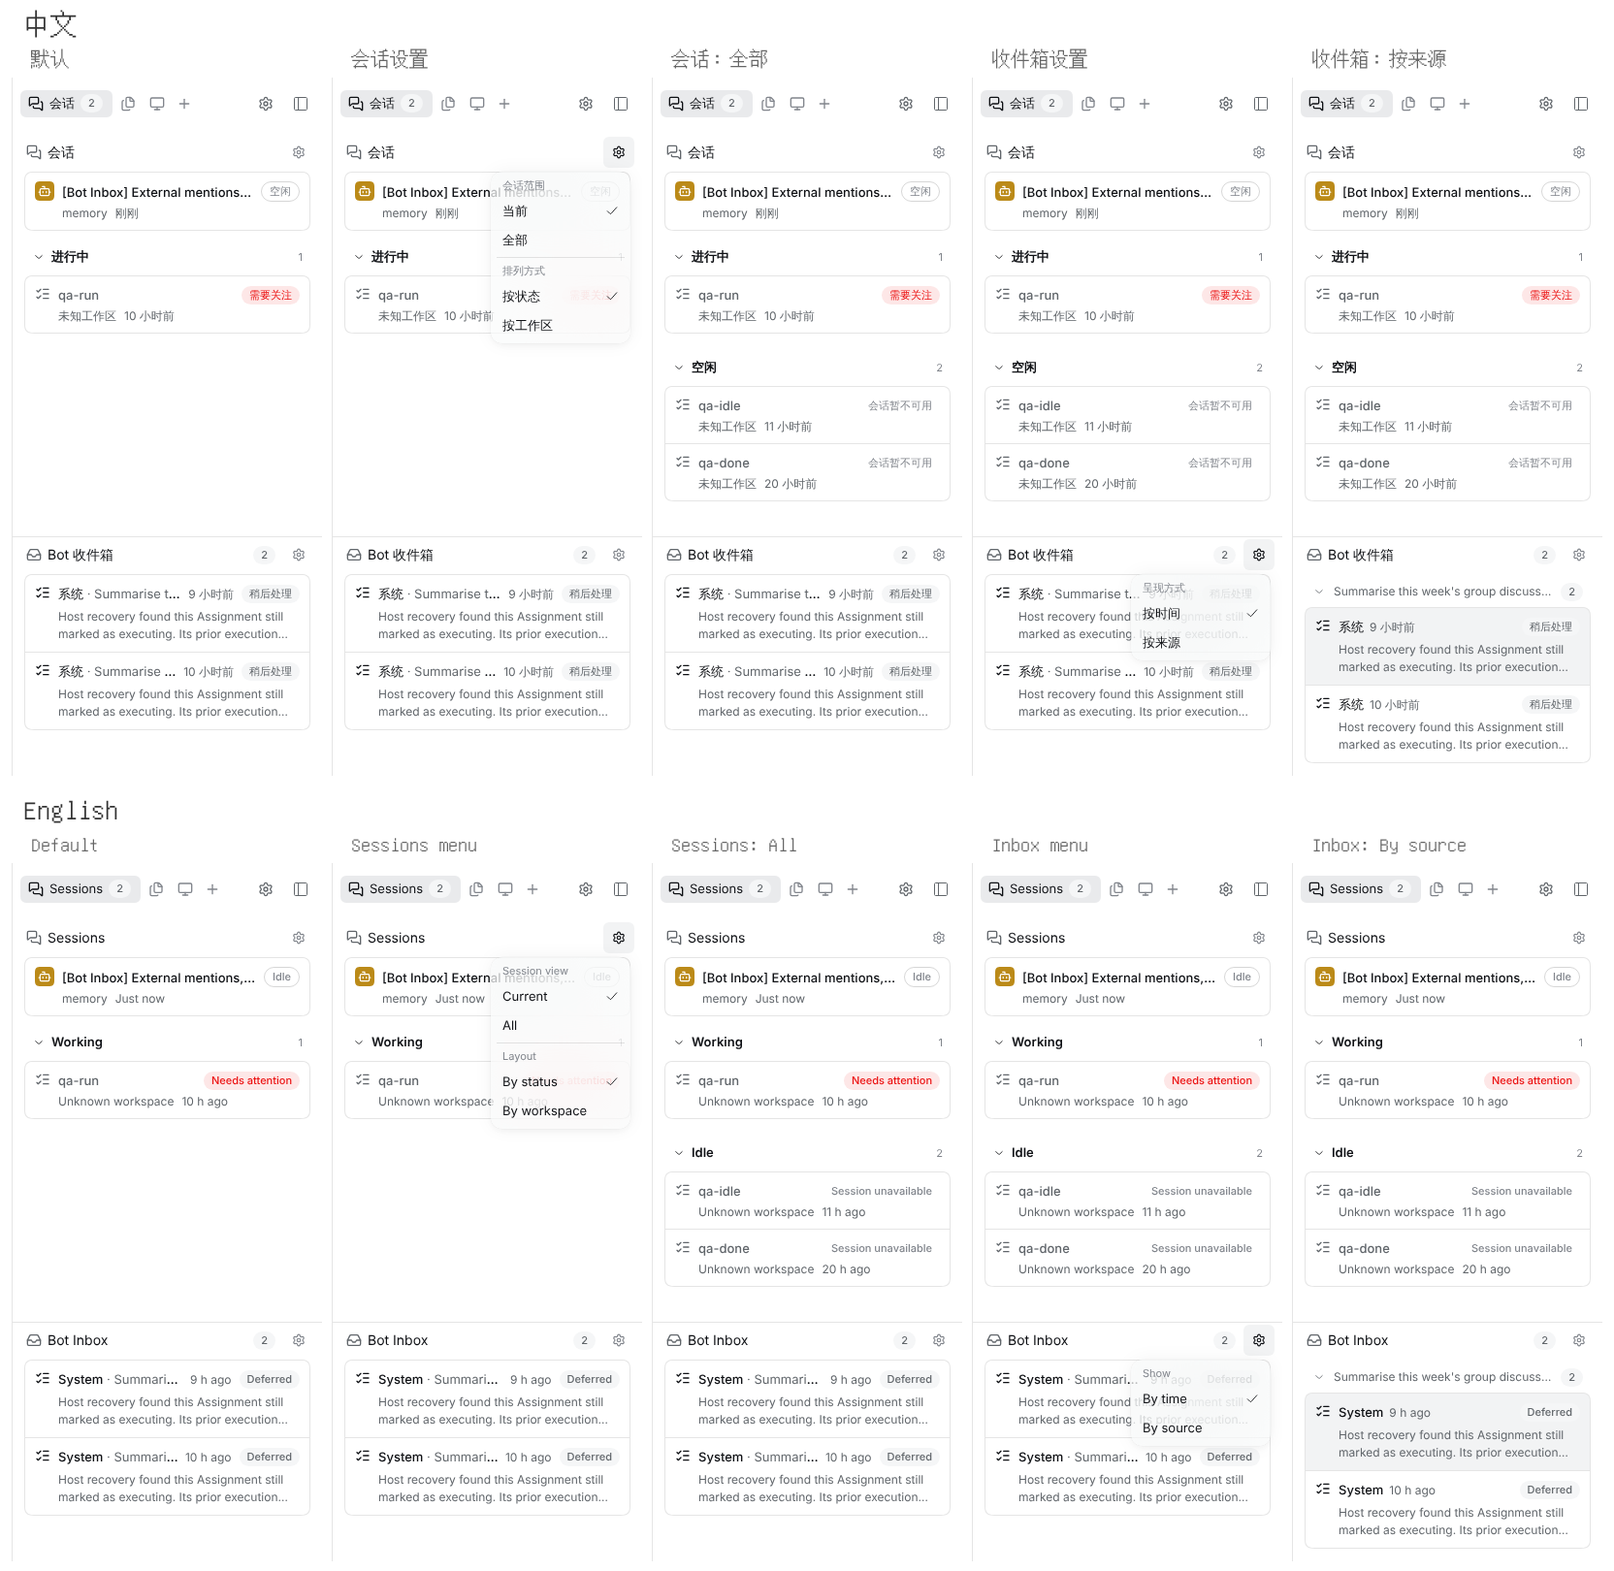
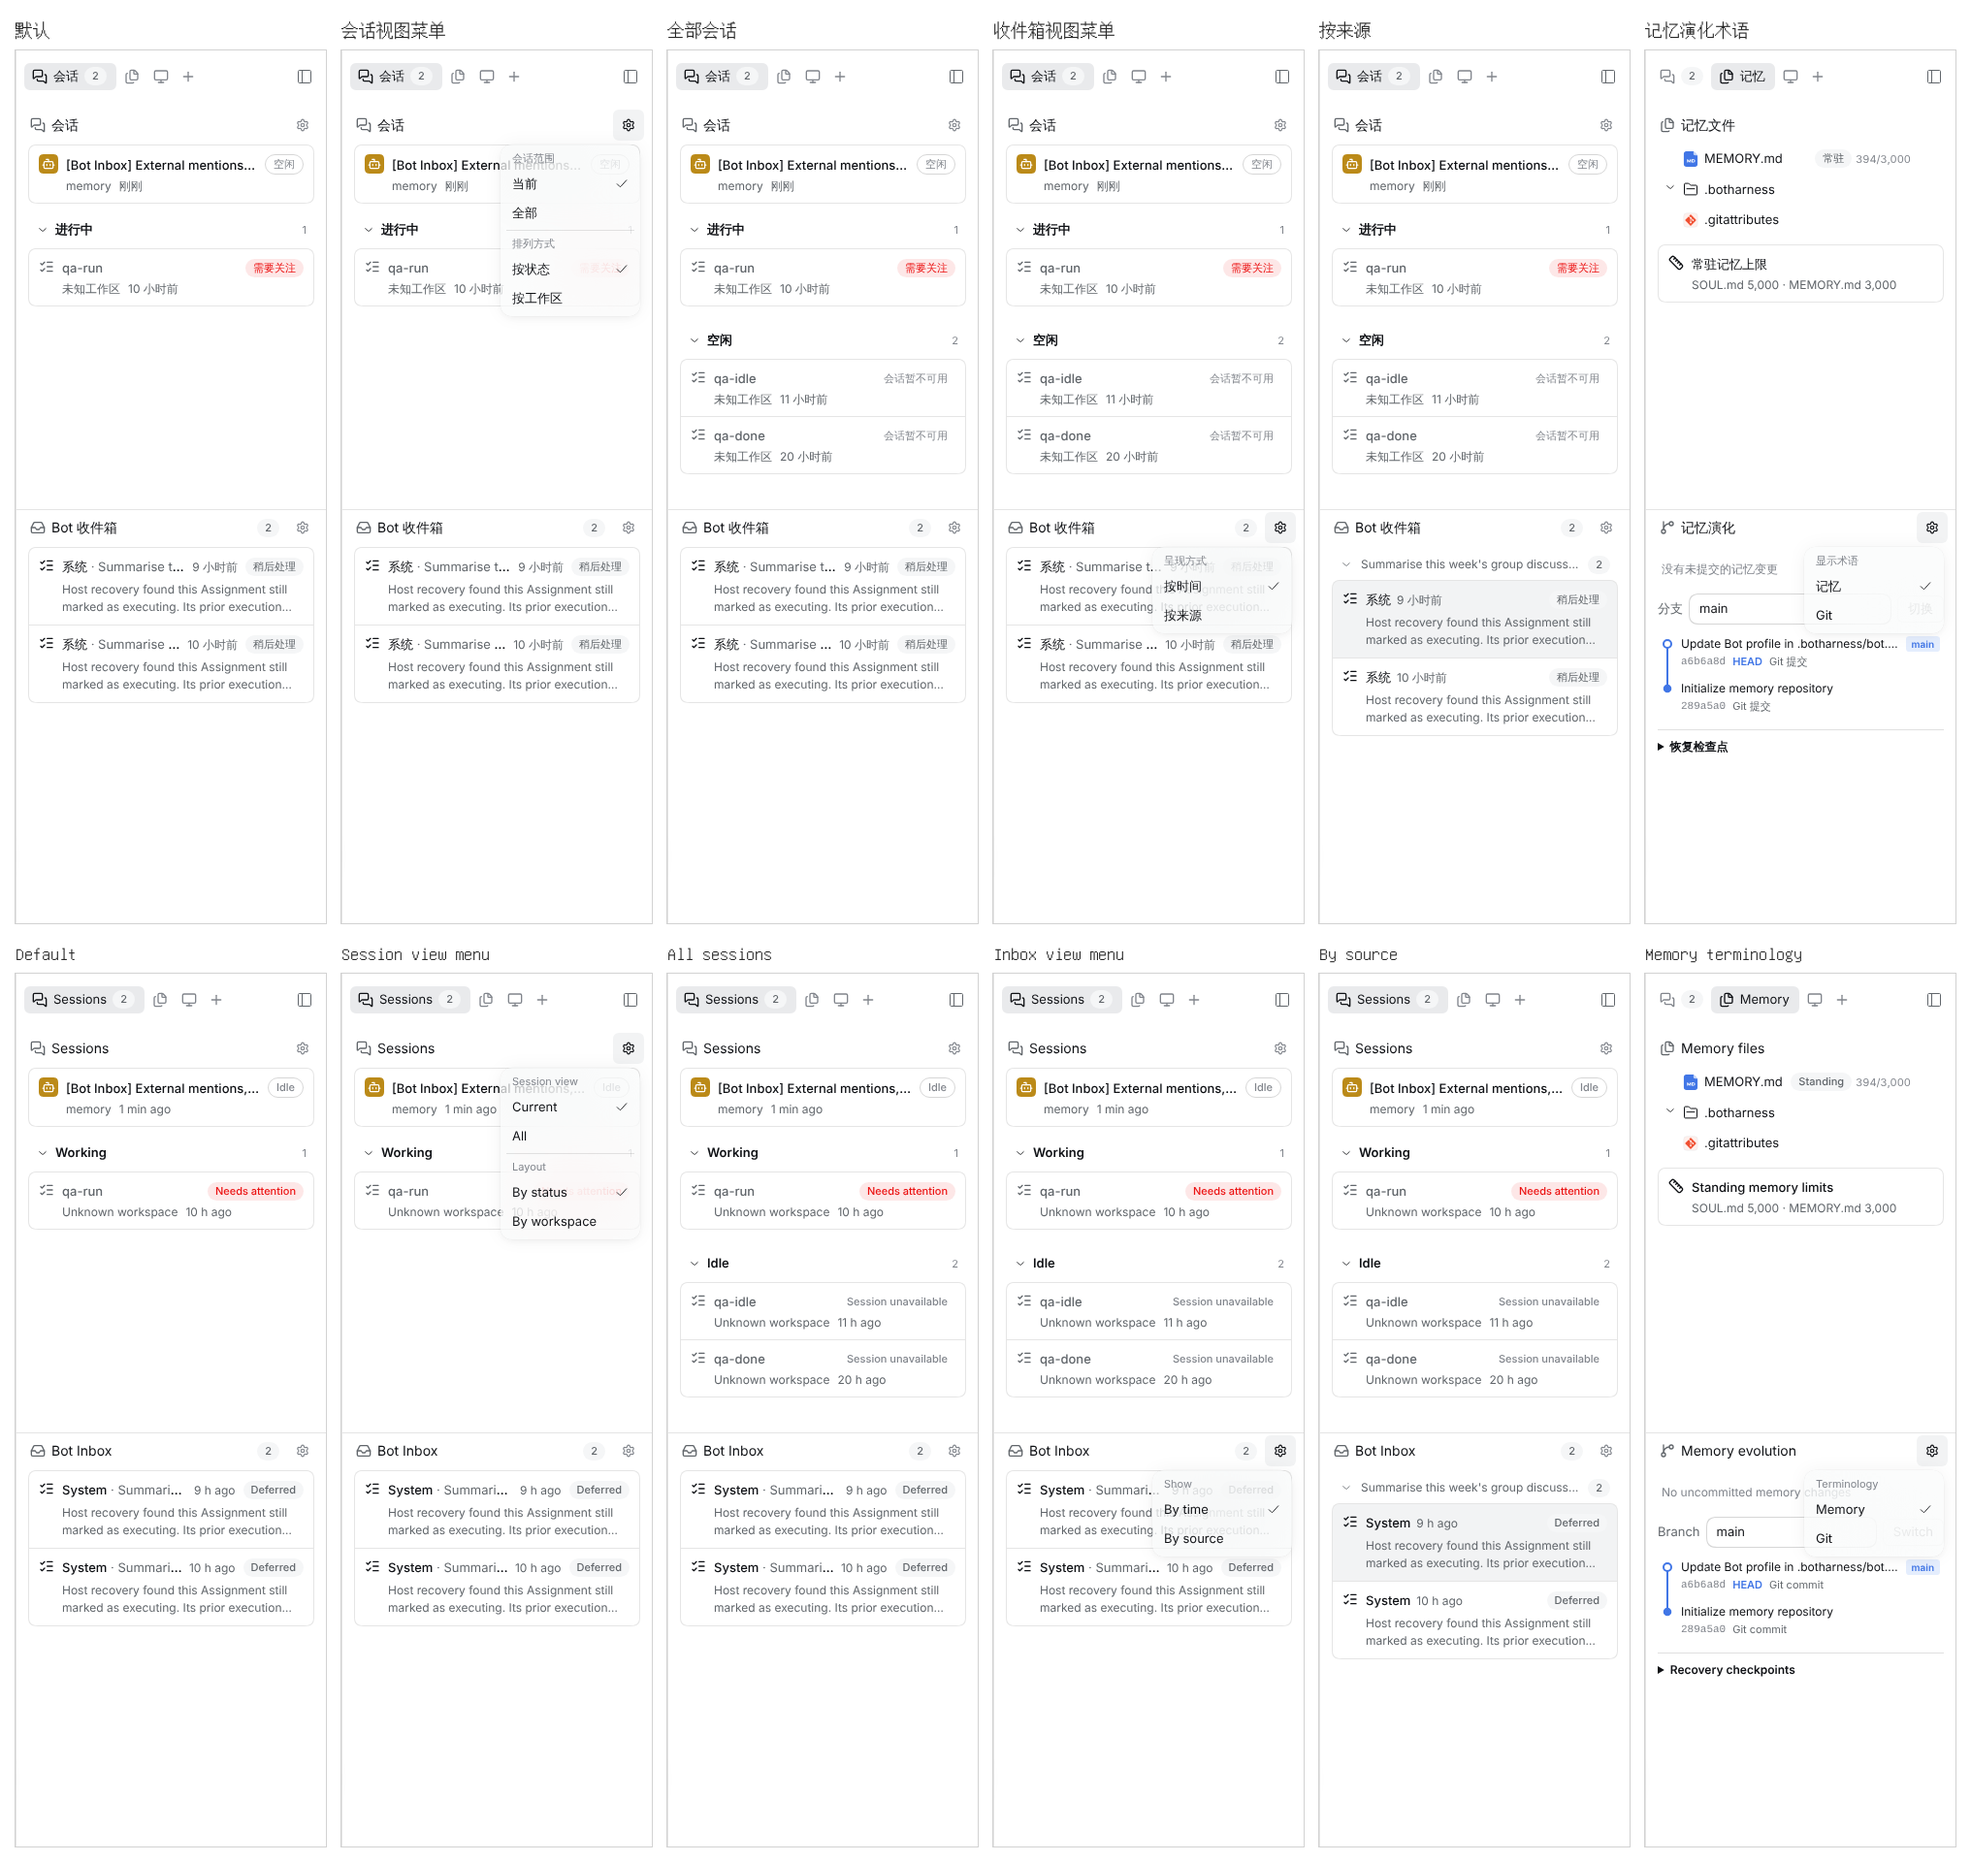
Show DM action filters as checkable rows in the chat header menu
Claude-Session: https://claude.ai/code/session_0152zfVCAc6MNB8R8xVq9b76

diff --git a/packages/client/test/channel-header-menu.test.ts b/packages/client/test/channel-header-menu.test.ts
@@ -2,7 +2,7 @@
 import { act, createElement, type ReactNode } from 'react';
 import { createRoot, type Root } from 'react-dom/client';
 import { afterEach, beforeEach, describe, expect, it, vi } from 'vitest';
-type Item = { id: string; label: string; submenu?: readonly Item[] };
+type Item = { id: string; type?: string; label?: string; text?: string };
 vi.mock('@deepseek-ai/dsh-client-ui-primitives', () => ({
   Button: () => null,
   Input: () => null,
@@ -21,22 +21,19 @@ vi.mock('@deepseek-ai/dsh-client-ui-primitives', () => ({
     onSelect(id: string): void;
   }) => {
     const row = (item: Item): ReactNode =>
-      createElement(
-        'button',
-        {
-          key: item.id,
-          role: 'menuitem',
-          'aria-checked': selectedIds.includes(item.id),
-          onClick: () => onSelect(item.id),
-        },
-        item.label,
-      );
-    return createElement(
-      'div',
-      null,
-      anchor,
-      open ? items.flatMap((item) => [row(item), ...(item.submenu ?? []).map(row)]) : null,
-    );
+      item.type !== undefined
+        ? createElement('span', { key: item.id }, item.text)
+        : createElement(
+            'button',
+            {
+              key: item.id,
+              role: 'menuitem',
+              'aria-checked': selectedIds.includes(item.id),
+              onClick: () => onSelect(item.id),
+            },
+            item.label,
+          );
+    return createElement('div', null, anchor, open ? items.map(row) : null);
   },
 }));
 vi.mock('../src/client/modal.js', () => ({ Modal: () => null }));
@@ -95,7 +92,7 @@ describe('channel header menu', () => {
   });
   it('toggles which of the Bot actions elsewhere its DM shows, per Bot', () => {
     render(dm);
-    expect(item('dmTrace.menu')).toBeDefined();
+    expect(host.textContent).toContain('dmTrace.menu');
     expect(item('dmTrace.kind.posts')?.getAttribute('aria-checked')).toBe('true');
     act(() => item('dmTrace.kind.posts')!.click());
     expect(hiddenDmActionsSnapshot('header-qa')).toEqual(['posts']);
@@ -107,7 +104,7 @@ describe('channel header menu', () => {
   });
   it('leaves Bot actions out of group Channels', () => {
     render({ ...dm, type: 'group', botSlug: undefined } as unknown as ChannelSummary);
-    expect(item('dmTrace.menu')).toBeUndefined();
+    expect(host.textContent).not.toContain('dmTrace.menu');
     expect(item('humanNickname.title')).toBeDefined();
   });
 });

diff --git a/packages/client/src/client/human-channel-name.tsx b/packages/client/src/client/human-channel-name.tsx
@@ -4,6 +4,7 @@ import {
   Input,
   Menu,
   IconEllipsisOutlineRegular,
+  type MenuEntry,
 } from '@deepseek-ai/dsh-client-ui-primitives';
 import type { BridgeActions } from './actions.js';
 import type { ChannelSummary } from './store.js';
@@ -119,22 +120,25 @@ export function HumanChannelNameMenu({
     () => hiddenDmActionsSnapshot(dmBotSlug),
     () => hiddenDmActionsSnapshot(dmBotSlug),
   );
-  const items = [
+  const channelItems = [
     ...(onOpenSettings === undefined ? [] : [{ id: 'settings', label: t('channelSettings.open') }]),
     ...(channel.humanNickname === undefined
       ? []
       : [{ id: 'nickname', label: t('humanNickname.title') }]),
+  ];
+  const items: MenuEntry[] = [
+    ...channelItems,
     ...(dmBotSlug === undefined
       ? []
       : [
-          {
-            id: 'dm-actions',
-            label: t('dmTrace.menu'),
-            submenu: DM_ACTION_KINDS.map((kind) => ({
-              id: `dm:${kind}`,
-              label: t(`dmTrace.kind.${kind}`),
-            })),
-          },
+          ...(channelItems.length === 0
+            ? []
+            : [{ type: 'separator' as const, id: 'dm-separator' }]),
+          { type: 'label' as const, id: 'dm-label', text: t('dmTrace.menu') },
+          ...DM_ACTION_KINDS.map((kind) => ({
+            id: `dm:${kind}`,
+            label: t(`dmTrace.kind.${kind}`),
+          })),
         ]),
   ];
   if (items.length === 0) return null;
